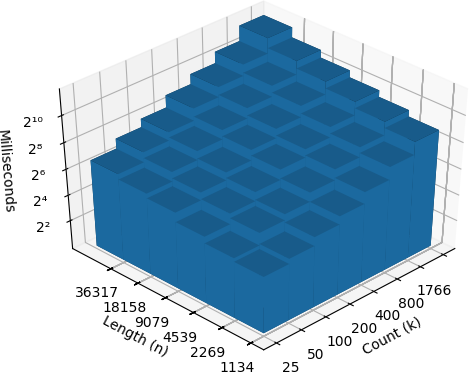
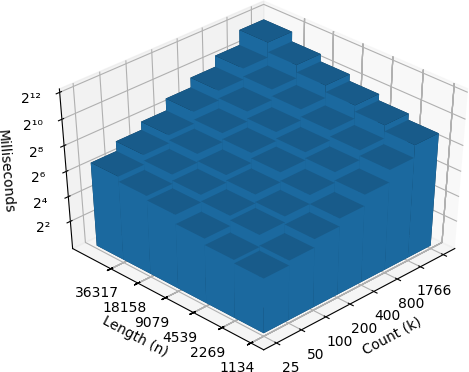
Fixing the Z-scale of the generated runtime images

diff --git a/plot-figure.py b/plot-figure.py
@@ -10,7 +10,13 @@ log_scale = True
 if len(sys.argv) < 2:
   exit("Must provide CSV file path")
 
+# Read in the raw data from the CVS file
 timings = np.genfromtxt (sys.argv[1], delimiter=",")
+
+# x & y values are ordinal in the range [0..n] X [0..k]
+# x & y labels are used to made the graph inteligeble
+# Likewise the log_2 of the z values (runtimes) is taken
+# and the z-tick labels are used to bake the graph inteligeble.
 xs  = timings[:,0]
 ys  = timings[:,1]
 xsl = timings[:,2]
@@ -19,16 +25,21 @@ zs  = timings[:,4]
 fig = plt.figure()
 ax  = fig.add_subplot(111, projection='3d')
 
+# Take the log_2 of the z values
 if log_scale:
-#  ax.set_zscale('log',basex=2)
   for i in range(len(timings)):
     for j in range(len(timings[i])):
       if j == 4:
         timings[i,j] = math.log(timings[i,j],4)
 
+# Set bounds for the 3D graph.
+# Without this, the plot will not correctly render the boxes of each data point
+# The bottom of the boxes will not exist and we render planes of width 0.
+# These planes are essentially invisible and therefore useless.
 bottom = np.zeros_like(zs)
 width  = depth = 1
 
+# Create ranges of the form [0..n] and [0..k] based on the tick labels.
 my_xticks = list(map(str, map(int, sorted(set(xsl.tolist())))))
 my_yticks = list(map(str, map(int, sorted(set(ysl.tolist())))))
 my_xticks.insert(0,0)
@@ -38,9 +49,10 @@ ax.set_zticks(range(2,15,2))
 ax.set_xticklabels(my_xticks)
 ax.set_yticklabels(my_yticks)
 ax.set_zticklabels(['2²','2⁴','2⁶','2⁸','2¹⁰','2¹²','2¹⁴'])
-ax.set_xlabel('Count (n)')
-ax.set_ylabel('Length (k)')
+ax.set_xlabel('Count (k)')
+ax.set_ylabel('Length (n)')
 ax.set_zlabel('Milliseconds')
+ax.set_zlim(0, 12)
 
 ax.bar3d(xs, ys, bottom, width, depth, zs, shade=True)
 ax.view_init(40, 225)
@@ -50,3 +62,4 @@ if len(sys.argv) < 3:
   plt.show()
 else:
   plt.savefig(sys.argv[2])
+
